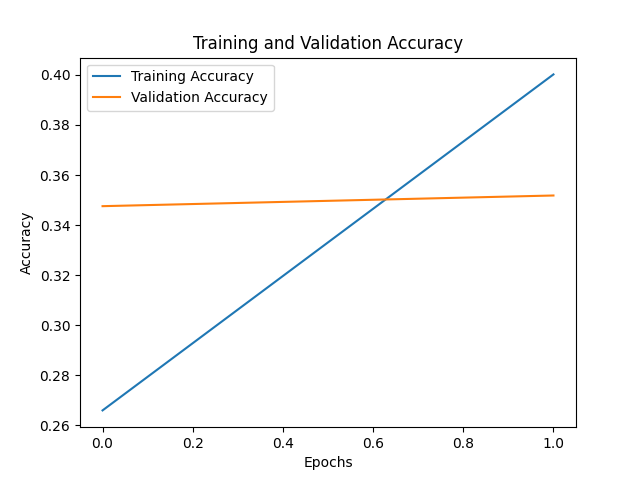
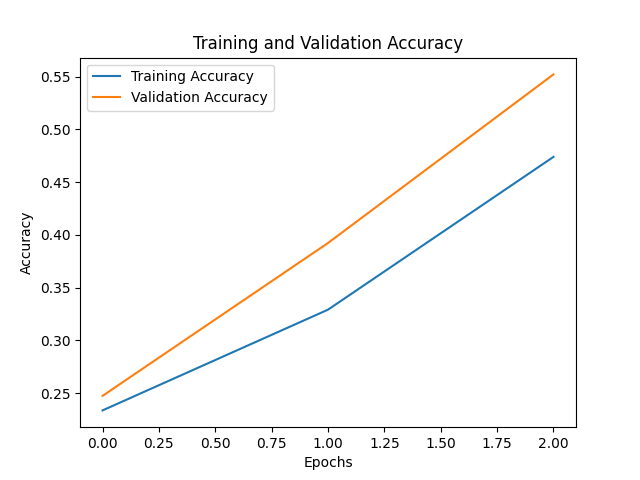
[Update] train custom cnn does the training but the consumer "predict_webcam" is unable to consume the .h5
[Unestable]

diff --git a/train_custom_cnn.py b/train_custom_cnn.py
@@ -1,54 +1,54 @@
 import tensorflow as tf
-from tensorflow.keras import layers, models
+from tensorflow.keras import layers
 import os
 from tensorflow.keras.preprocessing.image import ImageDataGenerator
 from datetime import datetime
 import matplotlib.pyplot as plt
 
-# Directory paths
+# Directorios
 base_dir = 'C:/Users/darin/Documents/8B/tensorflow/data'
-train_dir = base_dir  # Assuming all images are in the 'data' directory
+train_dir = base_dir
 charts_dir = 'C:/Users/darin/Documents/8B/tensorflow/charts'
 
-# Image parameters
-img_height, img_width = 224, 224  # Adjust as necessary
+# Parámetros de imagen
+img_height, img_width = 224, 224
 batch_size = 32
 
-# Data augmentation and normalization for training
+# Data augmentation y normalización para entrenamiento
 train_datagen = ImageDataGenerator(
     rescale=1.0/255.0,
     shear_range=0.2,
     zoom_range=0.2,
     horizontal_flip=True,
-    rotation_range=20,  # Added rotation for augmentation
-    width_shift_range=0.2,  # Added width shift for augmentation
-    height_shift_range=0.2,  # Added height shift for augmentation
-    validation_split=0.2  # Use 20% of the data for validation
+    rotation_range=20,
+    width_shift_range=0.2,
+    height_shift_range=0.2,
+    validation_split=0.2
 )
 
-# Data generator for training
+# Generador de datos para entrenamiento
 train_generator = train_datagen.flow_from_directory(
     train_dir,
     target_size=(img_height, img_width),
     batch_size=batch_size,
     class_mode='categorical',
-    subset='training'  # Set as training data
+    subset='training'
 )
 
-# Data generator for validation
+# Generador de datos para validación
 validation_generator = train_datagen.flow_from_directory(
     train_dir,
     target_size=(img_height, img_width),
     batch_size=batch_size,
     class_mode='categorical',
-    subset='validation'  # Set as validation data
+    subset='validation'
 )
 
-# Print class indices
+# Imprimir índices de clases
 class_indices = train_generator.class_indices
 print("Class indices:", class_indices)
 
-# Define a custom CNN model with dropout for regularization
+# Definir un modelo CNN personalizado con dropout para regularización
 class CustomCNN(tf.keras.Model):
     def __init__(self, num_classes):
         super(CustomCNN, self).__init__()
@@ -60,7 +60,7 @@ class CustomCNN(tf.keras.Model):
         self.pool3 = layers.MaxPooling2D((2, 2))
         self.flatten = layers.Flatten()
         self.fc1 = layers.Dense(256, activation='relu')
-        self.dropout = layers.Dropout(0.5)  # Added dropout for regularization
+        self.dropout = layers.Dropout(0.5)
         self.fc2 = layers.Dense(num_classes, activation='softmax')
 
     def call(self, x):
@@ -75,18 +75,18 @@ class CustomCNN(tf.keras.Model):
         x = self.dropout(x)
         return self.fc2(x)
 
-# Get number of classes from the generator
+# Obtener número de clases
 num_classes = len(train_generator.class_indices)
 
-# Instantiate the model
+# Instanciar el modelo
 model = CustomCNN(num_classes=num_classes)
 
-# Compile the model
+# Compilar el modelo
 model.compile(optimizer='adam',
               loss='categorical_crossentropy',
               metrics=['accuracy'])
 
-# Function to log training details
+# Función para registrar detalles del entrenamiento
 def log_training_details(log_file, history, class_indices, val_accuracy):
     with open(log_file, 'a') as f:
         f.write(f"Training log for {datetime.now().strftime('%Y-%m-%d %H:%M:%S')}\n")
@@ -97,7 +97,7 @@ def log_training_details(log_file, history, class_indices, val_accuracy):
         f.write(f"Final validation accuracy: {val_accuracy * 100:.2f}%\n")
         f.write(f"{'='*50}\n\n")
 
-# Function to save a plot of the training and validation accuracy
+# Función para guardar una gráfica de la precisión de entrenamiento y validación
 def save_accuracy_plot(history, save_dir):
     plt.figure()
     plt.plot(history.history['accuracy'], label='Training Accuracy')
@@ -108,27 +108,27 @@ def save_accuracy_plot(history, save_dir):
     plt.legend()
     plt.savefig(f"{save_dir}/accuracy_plot.png")
 
-# Train the model
+# Entrenar el modelo
 history = model.fit(
     train_generator,
-    epochs=2,  # Reduced epochs for quicker testing
+    epochs=3,  # Reduce the number of epochs for quick testing
     validation_data=validation_generator
 )
 
-# Save the trained model
-model_save_path = 'custom_cnn_model.h5'
-model.save(model_save_path)
+# Guardar el modelo entrenado en formato SavedModel
+model_save_path = 'custom_cnn_model_saved'
+model.save(model_save_path, save_format='tf')
 print(f"Model saved to {model_save_path}")
 
-# Evaluate the model
+# Evaluar el modelo
 loss, acc = model.evaluate(validation_generator)
 print(f"Validation accuracy: {acc * 100:.2f}%")
 
-# Log the training details
+# Registrar detalles del entrenamiento
 log_file = 'training_log.md'
 log_training_details(log_file, history, class_indices, acc)
 
-# Save the accuracy plot
+# Guardar la gráfica de precisión
 os.makedirs(charts_dir, exist_ok=True)
 save_accuracy_plot(history, charts_dir)
 print(f"Accuracy plot saved to {charts_dir}")

diff --git a/predict_webcam.py b/predict_webcam.py
@@ -34,8 +34,8 @@ class CustomCNN(tf.keras.Model):
         return self.fc2(x)
 
 # Load the trained model with the custom layer
-model_save_path = 'custom_cnn_model.h5'
-model = load_model(model_save_path, custom_objects={'CustomCNN': CustomCNN})
+model_save_path = 'custom_cnn_model_saved'
+model = tf.keras.models.load_model(model_save_path, custom_objects={'CustomCNN': CustomCNN})
 
 # Load class labels
 labels_path = 'C:/Users/darin/Documents/8B/tensorflow/labels.txt'
@@ -66,8 +66,8 @@ while True:
     index = np.argmax(prediction)
     predicted_label = class_names[index]
 
-    # Display the resulting frame
-    cv2.putText(frame, f"Predicted: {predicted_label}", (10, 30), cv2.FONT_HERSHEY_SIMPLEX, 1, (255, 0, 0), 2, cv2.LINE_AA)
+    # Display the resulting frame with prediction percentages
+    cv2.putText(frame, f"Predicted: {predicted_label} ({prediction[0][index] * 100:.2f}%)", (10, 30), cv2.FONT_HERSHEY_SIMPLEX, 1, (255, 0, 0), 2, cv2.LINE_AA)
     cv2.imshow('Webcam', frame)
 
     # Break the loop on 'q' key press

diff --git a/training_log.md b/training_log.md
@@ -22,3 +22,19 @@ Validation accuracy per epoch: [0.3475479781627655, 0.35181236267089844]
 Final validation accuracy: 35.39%
 ==================================================
 
+Training log for 2024-07-02 19:21:04
+Class indices: {'Arms_up': 0, 'Hands_hips': 1, 'Neutral': 2, 'T-pose': 3}
+Epochs: 2
+Accuracy per epoch: [0.2521231472492218, 0.31422504782676697]
+Validation accuracy per epoch: [0.25799572467803955, 0.31982943415641785]
+Final validation accuracy: 32.62%
+==================================================
+
+Training log for 2024-07-02 19:29:54
+Class indices: {'Arms_up': 0, 'Hands_hips': 1, 'Neutral': 2, 'T-pose': 3}
+Epochs: 3
+Accuracy per epoch: [0.23354564607143402, 0.3290870487689972, 0.4739915132522583]
+Validation accuracy per epoch: [0.24733474850654602, 0.3923240900039673, 0.5522388219833374]
+Final validation accuracy: 55.44%
+==================================================
+
